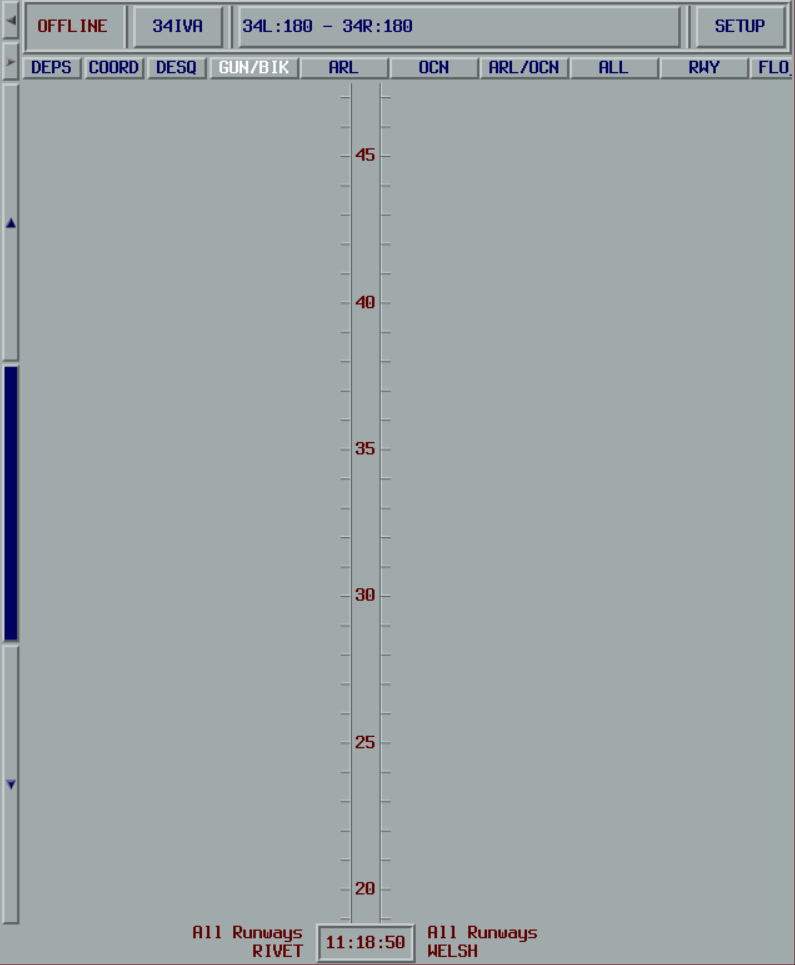
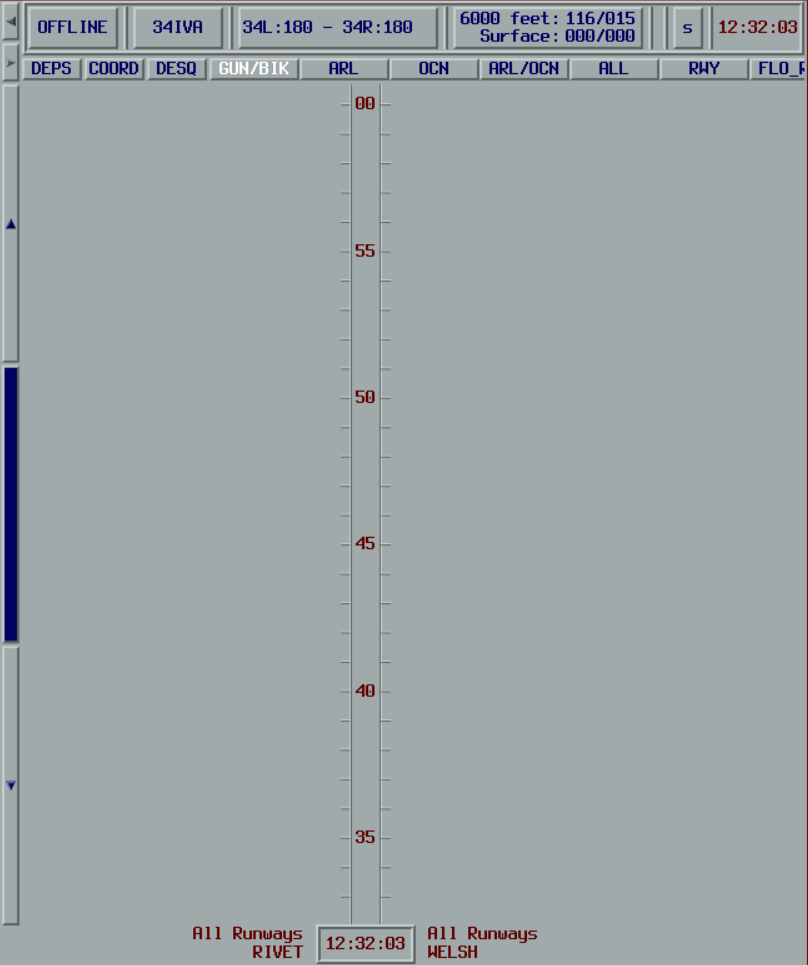
move header items around

Changed region(s): [[0.0, 0.0, 1.0, 1.0]]

diff --git a/source/Maestro.Wpf/Views/MaestroView.xaml b/source/Maestro.Wpf/Views/MaestroView.xaml
@@ -24,6 +24,7 @@
             <converters:FeederFixesToLadderTitleConverter x:Key="FeederFixesToLadderTitleConverter" />
             <converters:EqualityConverter x:Key="EqualityConverter" />
             <converters:LandingRateUnitSymbolConverter x:Key="LandingRateUnitSymbolConverter" />
+            <converters:BoolToVisibilityConverter x:Key="BoolToVisibilityConverter" />
 
             <Style TargetType="{x:Type TextBlock}" BasedOn="{StaticResource GenericTextStyle}" />
             <Style TargetType="{x:Type Button}" BasedOn="{StaticResource ButtonBaseStyle}" />
@@ -90,31 +91,26 @@
 
             <Grid Margin="1">
                 <Grid.ColumnDefinitions>
-                    <ColumnDefinition Width="72" />
+                    <ColumnDefinition Width="72" /> <!-- Online indicator (Position ID IRL) -->
                     <ColumnDefinition Width="Auto" />
-                    <ColumnDefinition MinWidth="72" Width="Auto" />
+                    <ColumnDefinition MinWidth="72" Width="Auto" /> <!-- TMA Configuration -->
                     <ColumnDefinition Width="Auto" />
-                    <ColumnDefinition Width="160" />
+                    <ColumnDefinition MinWidth="160" Width="*" /> <!-- Desired Rates -->
                     <ColumnDefinition Width="Auto" />
+                    <ColumnDefinition Width="Auto" /> <!-- Winds -->
                     <ColumnDefinition Width="Auto" />
+                    <ColumnDefinition Width="*" /> <!-- Achieved Rates -->
                     <ColumnDefinition Width="Auto" />
-                    <ColumnDefinition Width="*" />
+                    <ColumnDefinition Width="Auto" /> <!-- Units Selector -->
                     <ColumnDefinition Width="Auto" />
-                    <ColumnDefinition Width="24" />
-                    <ColumnDefinition Width="Auto" />
-                    <ColumnDefinition Width="64" />
-                    <ColumnDefinition Width="Auto" />
-                    <ColumnDefinition Width="72" />
+                    <ColumnDefinition Width="Auto" /> <!-- UTC Time -->
                 </Grid.ColumnDefinitions>
 
-                <!-- Sector ID -->
-                <TextBlock
+                <!-- Setup Button (Online Indicator) -->
+                <Button
                     Grid.Column="0"
-                    VerticalAlignment="Center"
-                    TextWrapping="Wrap"
-                    HorizontalAlignment="Center"
-                    Style="{StaticResource GenericTextStyle}"
-                    Text="{Binding Status}"/>
+                    Command="{Binding OpenConnectionWindowCommand}"
+                    Content="{Binding Status}"/>
 
                 <controls:BeveledLine Grid.Column="1" Width="{x:Static local:Theme.BeveledLineWidth}" Orientation="Vertical"/>
 
@@ -178,7 +174,7 @@
                     Orientation="Vertical" />
 
                 <!-- Wind Configuration -->
-                <Button Grid.Column="6" Command="{Binding OpenWindCommand}">
+                <Button Grid.Column="6" Command="{Binding OpenWindCommand}" Visibility="{Binding ShouldShowFlowControls, Converter={StaticResource BoolToVisibilityConverter}}">
                     <Grid Margin="4,0,4,0">
                         <Grid.Resources>
                             <Style TargetType="TextBlock" BasedOn="{StaticResource InteractiveTextStyle}">
@@ -215,10 +211,11 @@
                 <controls:BeveledLine
                     Grid.Column="7"
                     Width="{x:Static local:Theme.BeveledLineWidth}"
-                    Orientation="Vertical" />
+                    Orientation="Vertical"
+                    Visibility="{Binding ShouldShowFlowControls, Converter={StaticResource BoolToVisibilityConverter}}" />
 
                 <!-- Achieved Rates -->
-                <Grid Grid.Column="8" VerticalAlignment="Center">
+                <Grid Grid.Column="8" VerticalAlignment="Center" Visibility="{Binding ShouldShowFlowControls, Converter={StaticResource BoolToVisibilityConverter}}">
                     <Grid.RowDefinitions>
                         <RowDefinition/>
                         <RowDefinition/>
@@ -277,15 +274,17 @@
                 <controls:BeveledLine
                     Grid.Column="9"
                     Width="{x:Static local:Theme.BeveledLineWidth}"
-                    Orientation="Vertical" />
+                    Orientation="Vertical"
+                    Visibility="{Binding ShouldShowFlowControls, Converter={StaticResource BoolToVisibilityConverter}}" />
 
                 <!-- Units Selector -->
-                <Button Grid.Column="10" Content="{Binding SelectedUnit, Converter={StaticResource LandingRateUnitSymbolConverter}}" Command="{Binding CycleUnitsCommand}"/>
+                <Button Grid.Column="10" Width="24" Content="{Binding SelectedUnit, Converter={StaticResource LandingRateUnitSymbolConverter}}" Command="{Binding CycleUnitsCommand}" Visibility="{Binding ShouldShowFlowControls, Converter={StaticResource BoolToVisibilityConverter}}"/>
 
                 <controls:BeveledLine
                     Grid.Column="11"
                     Width="{x:Static local:Theme.BeveledLineWidth}"
-                    Orientation="Vertical" />
+                    Orientation="Vertical"
+                    Visibility="{Binding ShouldShowFlowControls, Converter={StaticResource BoolToVisibilityConverter}}" />
 
                 <!-- UTC Time -->
                 <TextBlock
@@ -293,15 +292,8 @@
                     Grid.Column="12"
                     VerticalAlignment="Center"
                     HorizontalAlignment="Center"
-                    Style="{StaticResource GenericTextStyle}"/>
-
-                <controls:BeveledLine
-                    Grid.Column="13"
-                    Width="{x:Static local:Theme.BeveledLineWidth}"
-                    Orientation="Vertical" />
-
-                <!-- Setup Button -->
-                <Button Grid.Column="14" Content="SETUP" Command="{Binding OpenConnectionWindowCommand}" />
+                    Style="{StaticResource GenericTextStyle}"
+                    Visibility="{Binding ShouldShowFlowControls, Converter={StaticResource BoolToVisibilityConverter}}"/>
             </Grid>
 
         </controls:BeveledBorder>

diff --git a/source/Maestro.Wpf/Handlers/ConnectionNotificationHandler.cs b/source/Maestro.Wpf/Handlers/ConnectionNotificationHandler.cs
@@ -19,7 +19,7 @@ public class ConnectionNotificationHandler(IMaestroConnectionManager connectionM
 {
     public Task Handle(ConnectionCreatedNotification notification, CancellationToken cancellationToken)
     {
-        WeakReferenceMessenger.Default.Send(new ConnectionStatusChangedNotification(notification.AirportIdentifier, "READY"));
+        WeakReferenceMessenger.Default.Send(new ConnectionStatusChangedNotification(notification.AirportIdentifier, "READY", Role.Observer, false));
         return Task.CompletedTask;
     }
 
@@ -28,13 +28,14 @@ public class ConnectionNotificationHandler(IMaestroConnectionManager connectionM
         if (!connectionManager.TryGetConnection(notification.AirportIdentifier, out var connection))
             return Task.CompletedTask;
 
-        WeakReferenceMessenger.Default.Send(new ConnectionStatusChangedNotification(notification.AirportIdentifier, GetStatus(connection)));
+        var flowIsOnline = connection.Peers.Any(p => p.Role == Role.Flow);
+        WeakReferenceMessenger.Default.Send(new ConnectionStatusChangedNotification(notification.AirportIdentifier, GetStatus(connection), connection.Role, flowIsOnline));
         return Task.CompletedTask;
     }
 
     public Task Handle(ReconnectingNotification notification, CancellationToken cancellationToken)
     {
-        WeakReferenceMessenger.Default.Send(new ConnectionStatusChangedNotification(notification.AirportIdentifier, "RECONN"));
+        WeakReferenceMessenger.Default.Send(new ConnectionStatusChangedNotification(notification.AirportIdentifier, "RECONN", Role.Observer, false));
         return Task.CompletedTask;
     }
 
@@ -43,19 +44,20 @@ public class ConnectionNotificationHandler(IMaestroConnectionManager connectionM
         if (!connectionManager.TryGetConnection(notification.AirportIdentifier, out var connection))
             return Task.CompletedTask;
 
-        WeakReferenceMessenger.Default.Send(new ConnectionStatusChangedNotification(notification.AirportIdentifier, GetStatus(connection)));
+        var flowIsOnline = connection.Peers.Any(p => p.Role == Role.Flow);
+        WeakReferenceMessenger.Default.Send(new ConnectionStatusChangedNotification(notification.AirportIdentifier, GetStatus(connection), connection.Role, flowIsOnline));
         return Task.CompletedTask;
     }
 
     public Task Handle(ConnectionStoppedNotification notification, CancellationToken cancellationToken)
     {
-        WeakReferenceMessenger.Default.Send(new ConnectionStatusChangedNotification(notification.AirportIdentifier, "READY"));
+        WeakReferenceMessenger.Default.Send(new ConnectionStatusChangedNotification(notification.AirportIdentifier, "READY", Role.Observer, false));
         return Task.CompletedTask;
     }
 
     public Task Handle(ConnectionDestroyedNotification notification, CancellationToken cancellationToken)
     {
-        WeakReferenceMessenger.Default.Send(new ConnectionStatusChangedNotification(notification.AirportIdentifier, "OFFLINE"));
+        WeakReferenceMessenger.Default.Send(new ConnectionStatusChangedNotification(notification.AirportIdentifier, "OFFLINE", Role.Observer, false));
         return Task.CompletedTask;
     }
 
@@ -64,7 +66,8 @@ public class ConnectionNotificationHandler(IMaestroConnectionManager connectionM
         if (!connectionManager.TryGetConnection(notification.AirportIdentifier, out var connection))
             return Task.CompletedTask;
 
-        WeakReferenceMessenger.Default.Send(new ConnectionStatusChangedNotification(notification.AirportIdentifier, GetStatus(connection!)));
+        var flowIsOnline = connection!.Peers.Any(p => p.Role == Role.Flow);
+        WeakReferenceMessenger.Default.Send(new ConnectionStatusChangedNotification(notification.AirportIdentifier, GetStatus(connection!), connection.Role, flowIsOnline));
         return Task.CompletedTask;
     }
 
@@ -73,7 +76,8 @@ public class ConnectionNotificationHandler(IMaestroConnectionManager connectionM
         if (!connectionManager.TryGetConnection(notification.AirportIdentifier, out var connection))
             return Task.CompletedTask;
 
-        WeakReferenceMessenger.Default.Send(new ConnectionStatusChangedNotification(notification.AirportIdentifier, GetStatus(connection!)));
+        var flowIsOnline = connection!.Peers.Any(p => p.Role == Role.Flow);
+        WeakReferenceMessenger.Default.Send(new ConnectionStatusChangedNotification(notification.AirportIdentifier, GetStatus(connection!), connection.Role, flowIsOnline));
         return Task.CompletedTask;
     }
 

diff --git a/source/Maestro.Wpf/ViewModels/MaestroViewModel.cs b/source/Maestro.Wpf/ViewModels/MaestroViewModel.cs
@@ -1,6 +1,7 @@
 using CommunityToolkit.Mvvm.ComponentModel;
 using CommunityToolkit.Mvvm.Input;
 using CommunityToolkit.Mvvm.Messaging;
+using Maestro.Contracts.Connectivity;
 using Maestro.Contracts.Flights;
 using Maestro.Contracts.Sessions;
 using Maestro.Contracts.Shared;
@@ -151,9 +152,25 @@ public partial class MaestroViewModel : ObservableObject
         }
     }
 
-    [ObservableProperty] string _status = "OFFLINE";
+    [ObservableProperty]
+    [NotifyPropertyChangedFor(nameof(ShouldShowFlowControls))]
+    string _status = "OFFLINE";
 
-    [ObservableProperty, NotifyPropertyChangedFor(nameof(IsScrolling), nameof(IsScrollingUp), nameof(IsScrollingDown))]
+    [ObservableProperty]
+    [NotifyPropertyChangedFor(nameof(ShouldShowFlowControls))]
+    Role _role = Role.Observer;
+
+    [ObservableProperty]
+    [NotifyPropertyChangedFor(nameof(ShouldShowFlowControls))]
+    bool _flowIsOnline = false;
+
+    public bool ShouldShowFlowControls =>
+        Status is "OFFLINE" or "READY" ||
+        Role is Role.Flow or Role.Approach ||
+        (Role == Role.Enroute && !FlowIsOnline);
+
+    [ObservableProperty]
+    [NotifyPropertyChangedFor(nameof(IsScrolling), nameof(IsScrollingUp), nameof(IsScrollingDown))]
     TimeSpan _scrollOffset = TimeSpan.Zero;
     public bool IsScrolling => ScrollOffset != TimeSpan.Zero;
     public bool IsScrollingUp => SelectedView.Direction == TimelineDirection.Up
@@ -208,10 +225,12 @@ public partial class MaestroViewModel : ObservableObject
 
         WeakReferenceMessenger.Default.Register<ConnectionStatusChangedNotification>(this, (r, m) =>
         {
-            if (m.AirportIdentifier == AirportIdentifier)
-            {
-                Status = m.Status;
-            }
+            if (m.AirportIdentifier != AirportIdentifier)
+                return;
+
+            Status = m.Status;
+            Role = m.Role;
+            FlowIsOnline = m.FlowIsOnline;
         });
 
         WeakReferenceMessenger.Default.Register<SessionUpdatedNotification>(this, (r, notification) =>

diff --git a/source/Maestro.Wpf/Contracts/ConnectionStatusChangedNotification.cs b/source/Maestro.Wpf/Contracts/ConnectionStatusChangedNotification.cs
@@ -1,3 +1,5 @@
-namespace Maestro.Wpf.Contracts;
+using Maestro.Contracts.Connectivity;
 
-public record ConnectionStatusChangedNotification(string AirportIdentifier, string Status);
+namespace Maestro.Wpf.Contracts;
+
+public record ConnectionStatusChangedNotification(string AirportIdentifier, string Status, Role Role, bool FlowIsOnline);
